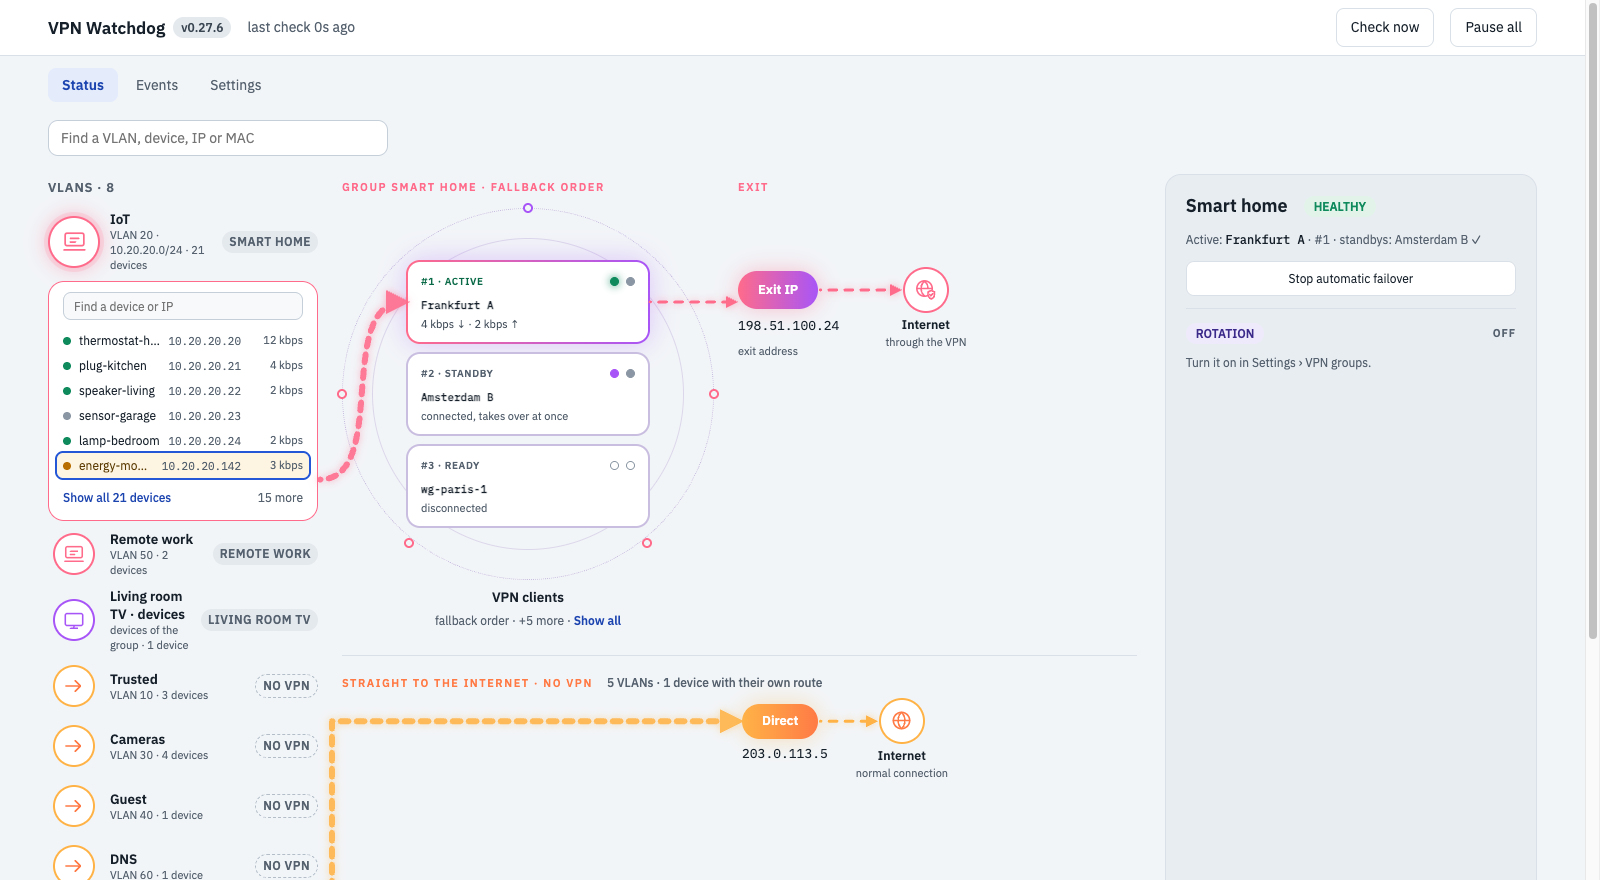
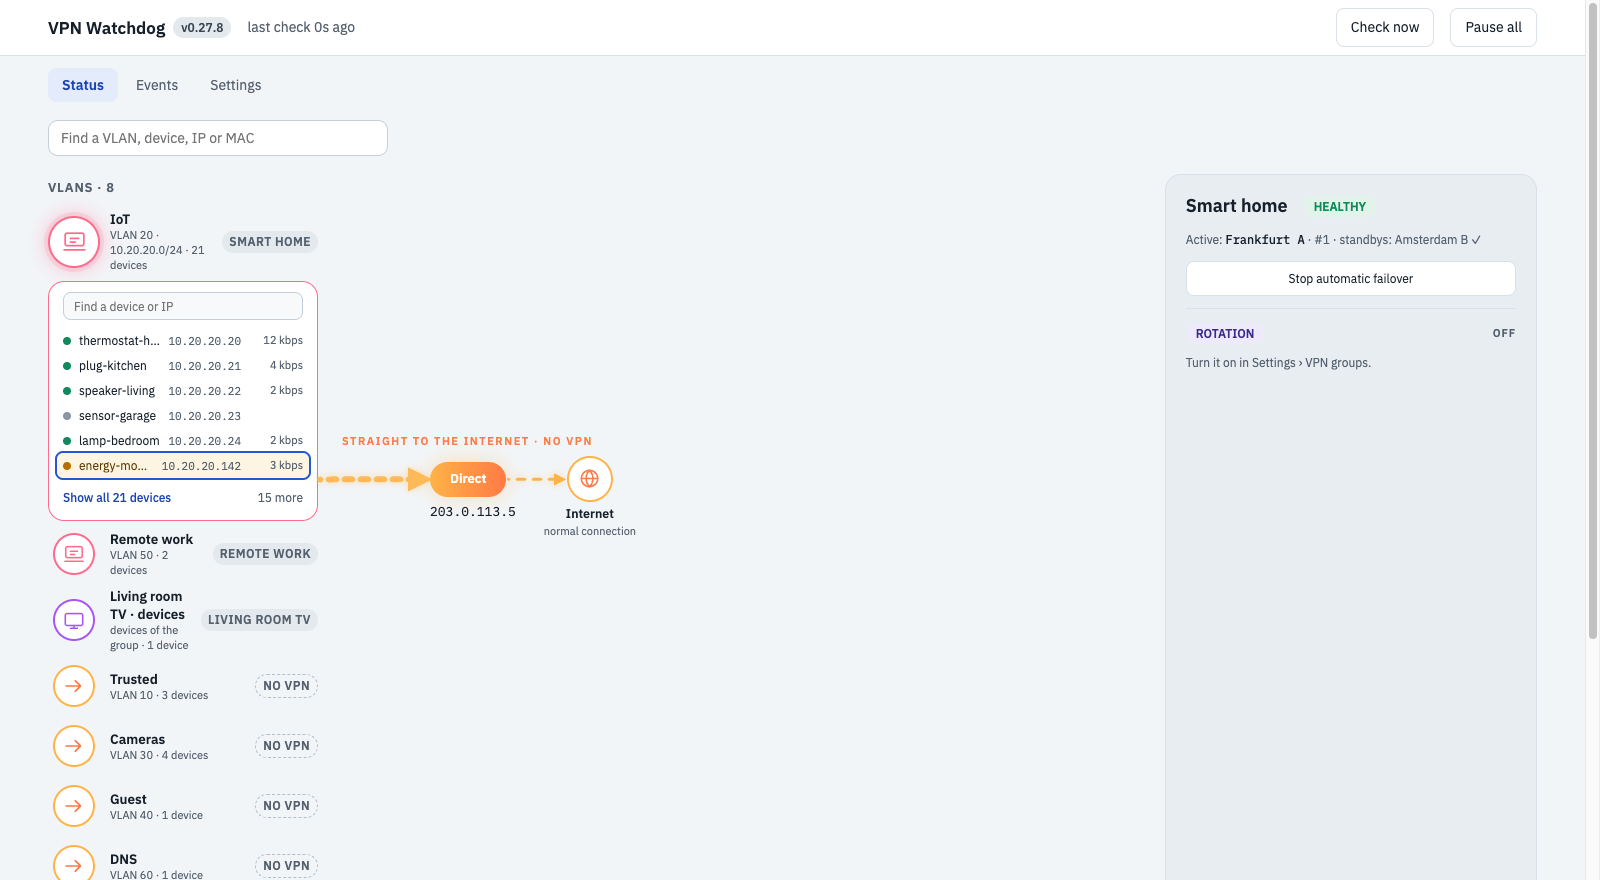
0.27.8: a selected own-route device shows only the exit it uses; refreshed screenshots

diff --git a/ha-unifi-vpn-watchdog/src/vpn_watchdog/ui/index.html b/ha-unifi-vpn-watchdog/src/vpn_watchdog/ui/index.html
@@ -178,7 +178,7 @@
   .gx-hubfoot { width: 372px; display: flex; flex-direction: column; align-items: center; gap: 4px; margin-top: 8px; text-align: center; font-size: 12px; } .gx-hubfoot > b { font-size: 13.5px; }
   .gx-more { color: var(--muted); font-size: 12px; cursor: default; } .gx-more[data-lane-toggle] { cursor: pointer; } .gx-more b { color: var(--accentink); }
   .gx-pool { width: 100%; margin-top: 8px; }
-  .gx-exitcol { padding-top: 0; min-width: 0; } .gx-exit { display: flex; align-items: flex-start; gap: 0; }
+  .gx.ownvpn .gx-exitcol { opacity: .35; } .gx-exitcol { padding-top: 0; min-width: 0; } .gx-exit { display: flex; align-items: flex-start; gap: 0; }
   .gx-exit .inet { display: flex; flex-direction: column; align-items: flex-start; gap: 6px; min-height: 0; padding: 0; border: 0; background: none; }
   .xpill { display: inline-flex; padding: 8px 20px; border-radius: 999px; background: linear-gradient(90deg, var(--g1), var(--g2)); color: #fff; font-weight: 700; font-size: 13px; box-shadow: 0 0 22px rgba(255,107,139,.4); white-space: nowrap; } .xpill.amb { background: linear-gradient(90deg, var(--amb1), var(--amb2)); box-shadow: 0 0 22px rgba(255,179,71,.35); }
   .gx-exit.bad .xpill { background: var(--bad); box-shadow: none; }
@@ -688,10 +688,11 @@ function gxSide(g, can, m) {
 }
 const gxSelDev = () => (selected && selected.kind === "dev") ? mapData().groups.flatMap((q) => q.networks.concat(q.device_net ? [q.device_net] : [])).concat(mapData().direct).flatMap((n) => n.devices).find((d) => d.mac === selected.mac) : null;
 function graphBlock(cur, left, m, can) {
-  const g = cur && cur.g, act = g ? g.lane.find((t) => t.active) : null;
-  const hub = g ? gxHub(g, can) : "";
-  return `<section class="gx" data-g="${g ? esc(g.name) : ""}"><div class="gx-main"><div class="gx-left"><div class="colh">VLANs · ${left.count}</div>${left.html}${ownCard(m)}</div>
-    <div class="gx-center">${g ? `<div class="gx-top">${hub}${gxExit(g, act, m)}</div>` : ""}${!g || (gxSelDev() && gxSelDev().bypass && gxSelDev().bypass.kind !== "vpn") ? gxDirect(m, !g) : ""}</div></div>${gxSide(g, can, m)}</section>`;
+  const g = cur && cur.g, dev = gxSelDev(), byp = dev && dev.bypass;
+  const cg = byp && byp.kind !== "vpn" ? null : g;          // a device whose own route goes to the normal connection does not use the group's exit: show only that path
+  const act = cg ? cg.lane.find((t) => t.active) : null;
+  return `<section class="gx ${byp && byp.kind === "vpn" ? "ownvpn" : ""}" data-g="${g ? esc(g.name) : ""}"><div class="gx-main"><div class="gx-left"><div class="colh">VLANs · ${left.count}</div>${left.html}${ownCard(m)}</div>
+    <div class="gx-center">${cg ? `<div class="gx-top">${gxHub(cg, can)}${gxExit(cg, act, m)}</div>` : ""}${cg ? "" : gxDirect(m, true)}</div></div>${gxSide(g, can, m)}</section>`;
 }
 function drawGraph() {
   const svg = $("#links"), root = $("#map"), gx = root && root.querySelector(".gx");
@@ -702,7 +703,9 @@ function drawGraph() {
   if (ex) ex.style.marginTop = "";
   if (ex && act && pill) ex.style.marginTop = Math.max(0, Math.round(cyOf(act) - pill.getBoundingClientRect().height / 2 - pill.getBoundingClientRect().top)) + "px";
   const dpill = gx.querySelector(".gx-dpill .xpill");
-  const dbox = gx.querySelector(".gx-direct.plain"), selv = gx.querySelector(".gx-left .vc.sel.direct .vh");
+  const own = gxSelDev(), devRow = own ? gx.querySelector(`.gx-left .vcard .dev[data-mac="${CSS.escape(own.mac)}"]`) : null;
+  const skipAct = !!(own && own.bypass && own.bypass.kind === "vpn");
+  const dbox = gx.querySelector(".gx-direct.plain"), selv = devRow || gx.querySelector(".gx-left .vc.sel.direct .vh");
   if (dbox) dbox.style.marginTop = "";
   if (dbox && dpill && selv) { const d = (selv.getBoundingClientRect().top + selv.getBoundingClientRect().height / 2) - (dpill.getBoundingClientRect().top + dpill.getBoundingClientRect().height / 2); dbox.style.marginTop = Math.max(0, Math.round(d)) + "px"; }
   const alignGlobe = (pl, gl) => { if (!pl || !gl) return; const xg = gl.closest(".xglobe"); xg.style.marginTop = ""; const d = (pl.getBoundingClientRect().top + pl.getBoundingClientRect().height / 2) - (gl.getBoundingClientRect().top + gl.getBoundingClientRect().height / 2); xg.style.marginTop = Math.round(d) + "px"; };
@@ -712,27 +715,23 @@ function drawGraph() {
   const R = (el) => { const r = el.getBoundingClientRect(); return { l: r.left - rr.left, r: r.right - rr.left, t: r.top - rr.top, b: r.bottom - rr.top, cy: (r.top + r.bottom) / 2 - rr.top }; };
   const segs = [], left = R(gx.querySelector(".gx-left")), x0 = left.r + 2;
   const grp = gx.dataset.g;
-  const own = gxSelDev();
   [...gx.querySelectorAll(".gx-left .vc")].forEach((vc) => {
     const isSel = vc.classList.contains("sel"), direct = vc.classList.contains("direct"), vh = vc.querySelector(".vh"); if (!vh) return;
     let y = R(vh).cy, hot = false, sx = x0;
     if (isSel && selected && selected.kind === "dev") { const row = vc.querySelector(`.dev[data-mac="${CSS.escape(selected.mac)}"]`); if (row) { y = R(row).cy; hot = true; sx = R(vc.querySelector(".vcard") || vc).r + 2; } }
+    if (isSel && !act && dpill && own && own.bypass && own.bypass.kind !== "vpn" && devRow) { const d = R(dpill); segs.push({ d: `M ${R(vc.querySelector(".vcard")).r + 2} ${R(devRow).cy} H ${x0 + 12} V ${d.cy} H ${d.l - 4}`, cls: "lk amber live hot", head: "amb" }); return; }
     if (direct && isSel && dpill) { const d = R(dpill); segs.push({ d: `M ${sx} ${y} H ${x0 + 12} V ${d.cy} H ${d.l - 4}`, cls: "lk amber live" + (hot ? " hot" : ""), head: "amb" }); return; }
-    if (!direct && act && vc.dataset.grp === grp) {
+    if (!direct && act && !skipAct && vc.dataset.grp === grp) {
       const a = R(act), ax = a.l - 2;
       segs.push({ d: `M ${sx} ${y} C ${sx + 70} ${y}, ${ax - 70} ${a.cy}, ${ax} ${a.cy}`, cls: isSel ? "lk on live" + (hot ? " hot" : "") : "lk idle dim", head: isSel ? "on" : "" });
     }
   });
-  if (act && pill) { const a = R(act), p = R(pill); segs.push({ d: `M ${a.r} ${a.cy} H ${p.l - 3}`, cls: "lk on live", head: "on" }); }
+  if (act && pill && !skipAct) { const a = R(act), p = R(pill); segs.push({ d: `M ${a.r} ${a.cy} H ${p.l - 3}`, cls: "lk on live", head: "on" }); }
   const eg = gx.querySelector(".gx-exit .gico"); if (pill && eg) { const p = R(pill), e = R(eg); segs.push({ d: `M ${p.r + 2} ${p.cy} H ${e.l - 4}`, cls: "lk on live", head: "on" }); }
   const dg = gx.querySelector(".gx-direct .gico"); if (dpill && dg) { const p = R(dpill), e = R(dg); segs.push({ d: `M ${p.r + 2} ${p.cy} H ${e.l - 4}`, cls: "lk amber live", head: "amb" }); }
-  if (own && own.bypass) {
-    const orow = gx.querySelector(`.ownc .orow[data-mac="${CSS.escape(own.mac)}"]`);
-    if (orow) {
-      const o = R(orow);
-      if (own.bypass.kind === "vpn") { const lc = gx.querySelector(`.lc[data-tun="${CSS.escape(own.bypass.tunnel_id || "")}"]`); if (lc) { const L = R(lc); segs.push({ d: `M ${o.r} ${o.cy} H ${x0 + 12} V ${L.cy} H ${L.l - 3}`, cls: "lk own live hot", head: "own" }); } }
-      else if (dpill) { const d = R(dpill); segs.push({ d: `M ${o.r} ${o.cy} H ${x0 + 12} V ${d.cy} H ${d.l - 4}`, cls: "lk amber live hot", head: "amb" }); }
-    }
+  if (own && own.bypass && own.bypass.kind === "vpn") {
+    const orow = devRow || gx.querySelector(`.ownc .orow[data-mac="${CSS.escape(own.mac)}"]`), lc = gx.querySelector(`.lc[data-tun="${CSS.escape(own.bypass.tunnel_id || "")}"]`);
+    if (orow && lc) { const o = R(orow), L = R(lc), sx = devRow ? R(devRow.closest(".vcard") || devRow).r + 2 : o.r; segs.push({ d: `M ${sx} ${o.cy} H ${x0 + 12} V ${L.cy} H ${L.l - 3}`, cls: "lk own live hot", head: "own" }); }
   }
   const mk = (id, v) => `<marker id="ah-${id}" orient="auto" markerWidth="4" markerHeight="4" refX="3" refY="2" overflow="visible"><path d="M0 0 L4 2 L0 4 Z" style="fill:var(${v});stroke:none"/></marker>`;
   svg.innerHTML = `<defs>${mk("on", "--g1")}${mk("amb", "--amb1")}${mk("own", "--g2")}</defs>` + segs.map((q) => `<path class="${q.cls}" d="${q.d}" ${q.head ? `marker-end="url(#ah-${q.head})"` : ""}/>`).join("");

diff --git a/ha-unifi-vpn-watchdog/src/vpn_watchdog/__init__.py b/ha-unifi-vpn-watchdog/src/vpn_watchdog/__init__.py
@@ -1,1 +1,1 @@
-__version__ = "0.27.7"
+__version__ = "0.27.8"

diff --git a/ha-unifi-vpn-watchdog/CHANGELOG.md b/ha-unifi-vpn-watchdog/CHANGELOG.md
@@ -1,5 +1,9 @@
 # Changelog
 
+## 0.27.8
+
+- Graphic status map: clicking a device with its own route now shows only the exit that device really uses. A device that goes straight to the internet shows just its path to Direct (no VPN exit); a device that goes through another VPN client shows only the path to that client, with the group's own exit dimmed.
+
 ## 0.27.7
 
 - The add-on documentation page (DOCS.md) is up to date: devices, shared clients, warm standbys, the graphic status map, the phone layout, routing and the `vpnwd:` policy names, and a note that speed-based failover is planned.
